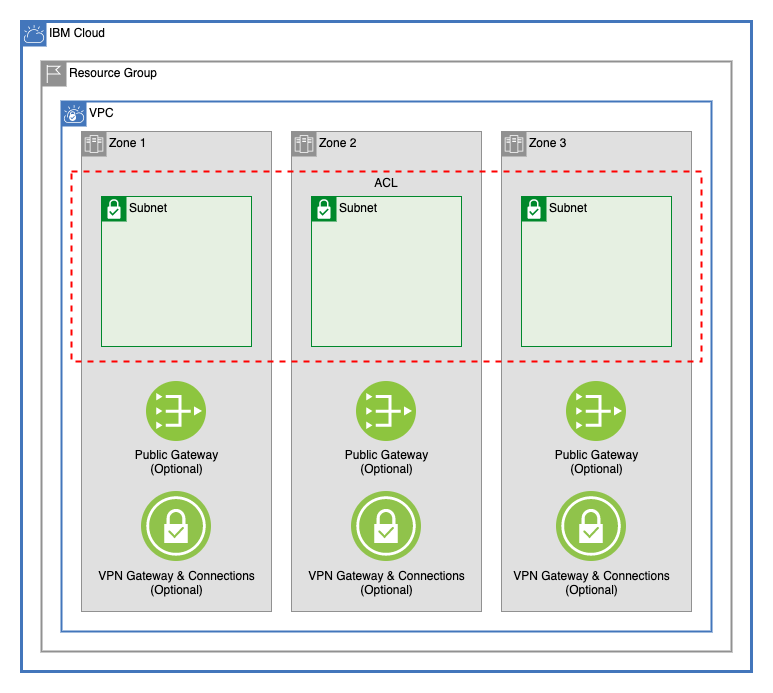
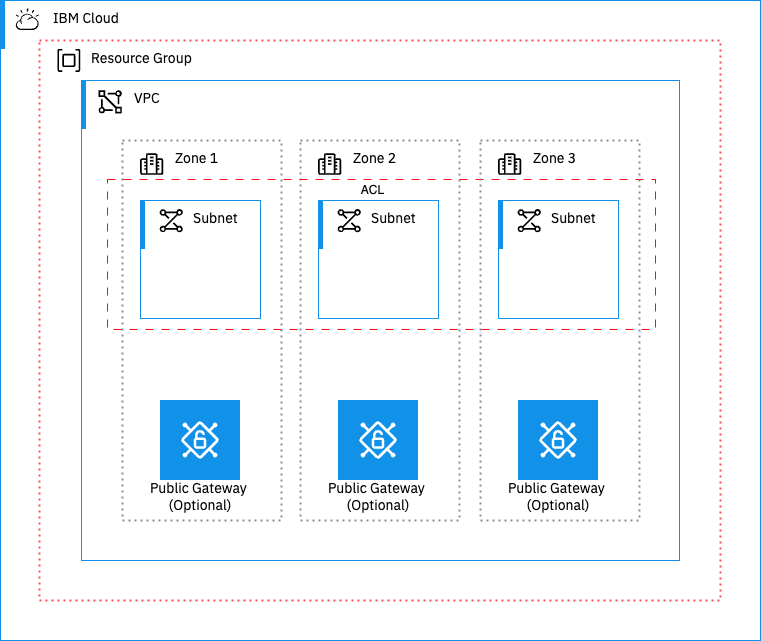
doc: updated diagram

diff --git a/README.md b/README.md
@@ -12,8 +12,6 @@ This module creates the following IBM Cloud&reg; Virtual Private Cloud (VPC) net
 - Public gateways: Optionally create public gateways in the VPC in each of the three zones of the VPC's region.
 - Subnets: Create one to three zones in the [subnet.tf](subnet.tf) file.
 - Network ACLs: Create network ACLs with multiple rules. By default, VPC network ACLs can have no more than 25 rules.
-- VPN gateways: Create VPN gateways on your subnets by using the `vpn_gateways` variable. For more information about VPN gateways on VPC, see [About site-to-site VPN gateways](https://cloud.ibm.com/docs/vpc?topic=vpc-using-vpn) in the IBM Cloud docs.
-- VPN gateway connections: Add connections to a VPN gateway.
 - Hub and spoke DNS-sharing model: Optionally create a hub or spoke VPC, with associated custom resolver and DNS resolution binding, as well as a service-to-service authorization policy which supports the hub and spoke VPCs to be in separate accounts. See [About DNS sharing for VPE gateways](https://cloud.ibm.com/docs/vpc?topic=vpc-hub-spoke-model) in the IBM Cloud docs for details.
 
 ![vpc-module](https://raw.githubusercontent.com/terraform-ibm-modules/terraform-ibm-landing-zone-vpc/main/.docs/vpc-module.png)
